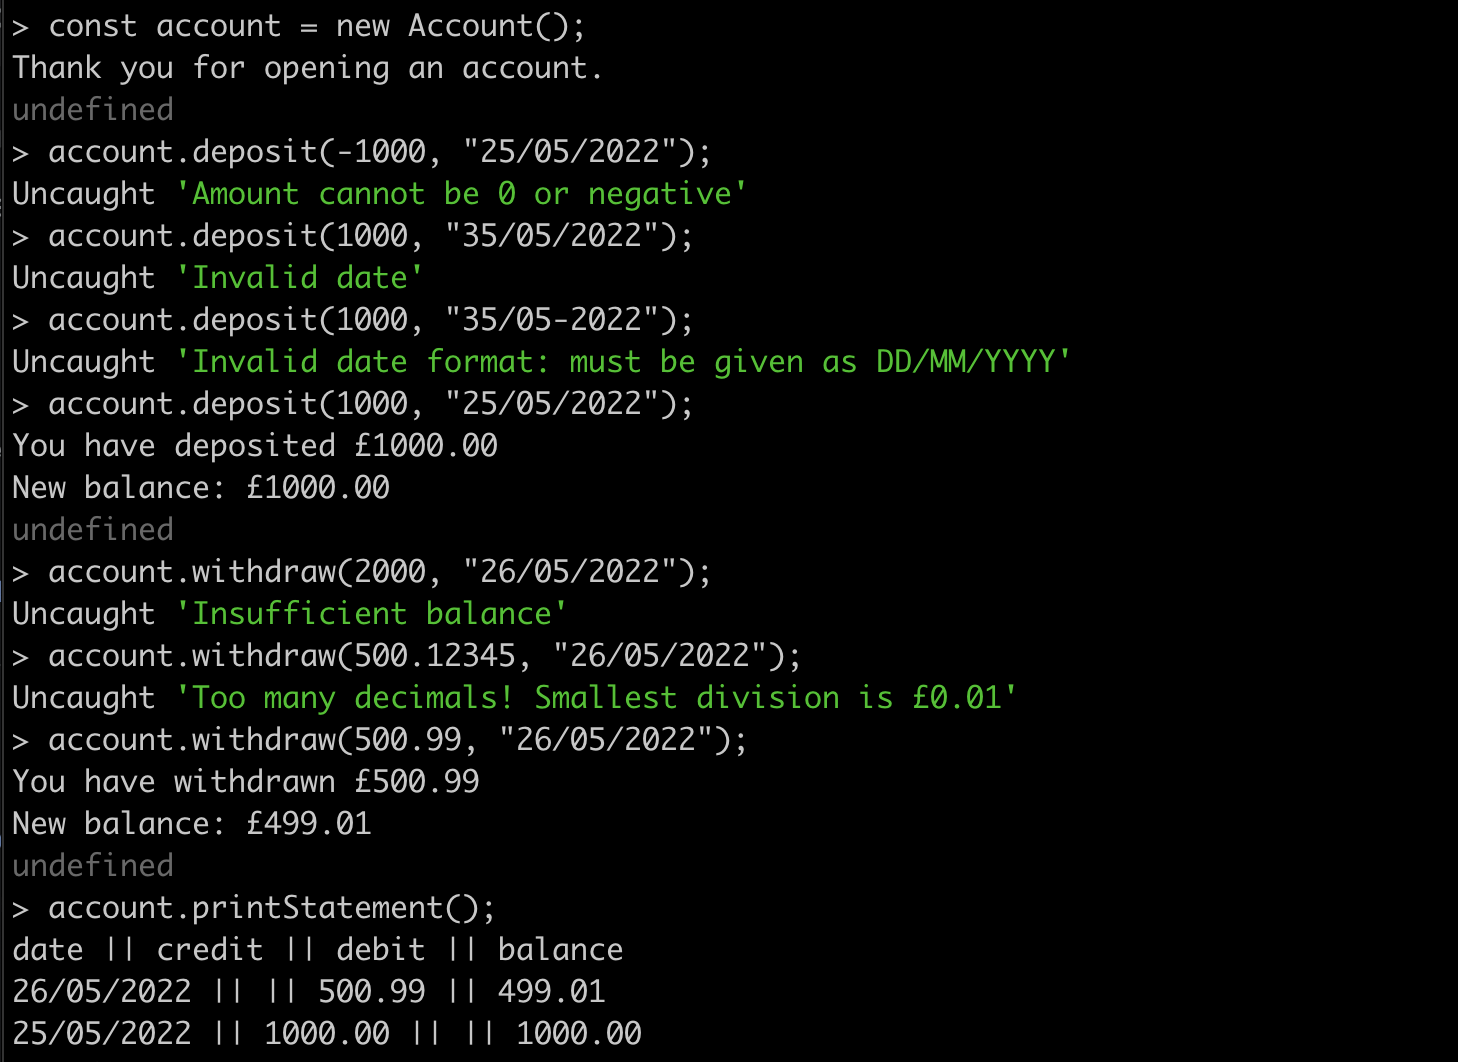
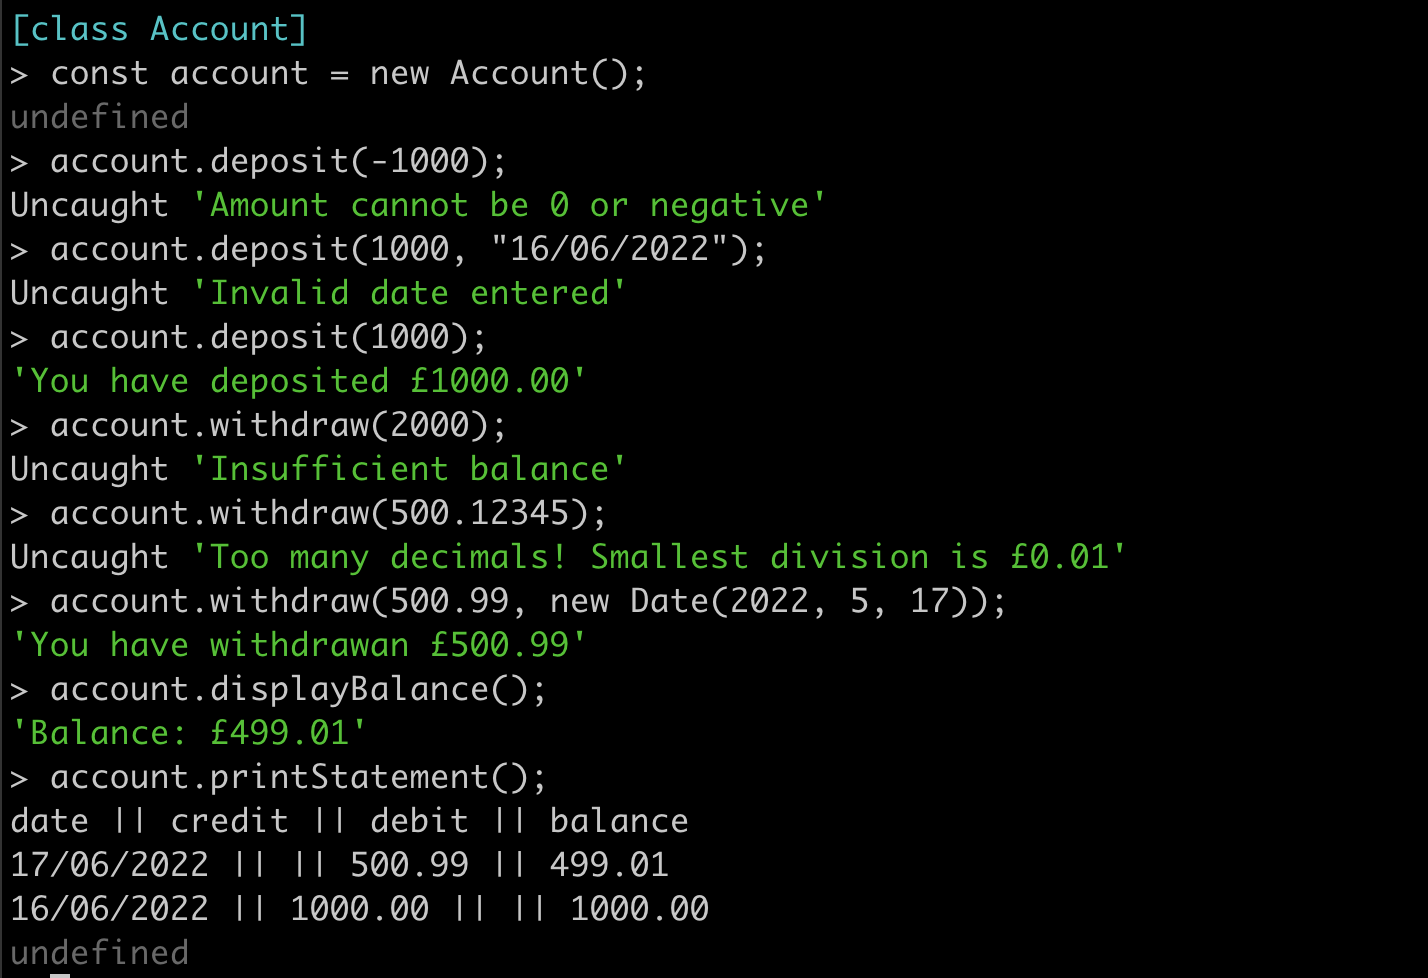
Update README
Update the "How to use" section to incorporate the new functionality..
Also, update the example output and test coverage images to match the
current code.

Changed region(s): [[0.0, 0.0, 0.7703, 1.0]]

diff --git a/README.md b/README.md
@@ -65,17 +65,15 @@ account.deposit(amount, date);
 account.withdraw(amount, date);
 ```
 
-`deposit` and `withdraw` increase and decrease the balance of the account respectively and call `addTransaction` from `TransactionLog` to add the transaction to `this.history`. These functions both have the following requirements for their arguments passed:
+`deposit` and `withdraw` increase and decrease the balance of the account respectively and call `addTransaction` from `TransactionLog` to add the transaction to `this.history`. `withdraw` cannot be run with an empty transaction log, because you cannot withdraw money from an empty account. The current balance is calculated from the transaction history itself. Therefore, no transaction history means there is no data to calculate a balance and thus £0.00 is given as the balance for this case. `date` has a default value which is a new Date object for the current time when `deposit` and `withdraw` are run. If you wish to input your own dates, however, the criteria for `date` is listed below along with the criteria for `amount`:
 
 - `amount`:
   - must be a number
   - cannot be less than or equal to 0
   - cannot have more than two decimal places (since it is in units of pounds)
-  - cannot be greater than the balance (this only applies to withdraw)
+  - cannot be greater than the updated balance of the last transaction (this only applies to withdraw)
 - `date`:
-  - must be in a valid format (DD/MM/YYYY)
-  - must be a valid date (e.g. "24/06/2022" is valid, "37/06/2022" is invalid)
-  - must be a string
+  - must be a valid date object (e.g. new Date(2022, 5, 26) is valid, new Date(2022, 5, 37) is invalid)
 
 If any of these conditions are not met, then the program will throw an appropriate error, giving the user some insight into what was wrong with their input.
 
@@ -103,7 +101,7 @@ date || credit || debit || balance
 
 Transactions with a non-zero amount of money in the credit column are deposits while transactions with a non zero amount of money in the debit column are withdrawals. The balance displayed is the balance of the account once the transaction has been completed.
 
-The user is able to enter dates they want in any order. This could therefore create confusion in the statement with transactions being unordered. In the real world, the program would simply record the current date when a transaction is made (could be done by simply using `new Date()`). However, this program has been designed with the intent for the user to use this on a short timescale. Therefore, forcing the user to use the current date would mean they could only record transactions one day at a time which would be a major inconvenience for testing this program.
+Since the user is able to enter dates they want in any order, this could create confusion in the statement with transactions being unordered. However, the freedom to input a specific date for testing is needed which opens this option up for the user. To prevent this in the real world, a user interface would be made to stop the user from being able to input the date they wanted to and would instead always use the default value of `new Date()` to get the current date. Also, this program has been designed for users to experiment with multiple different dates in a short timescale, as oppose to entering transactions and having to wait a full day to input a new one with a different date.
 
 ### Example Output
 
